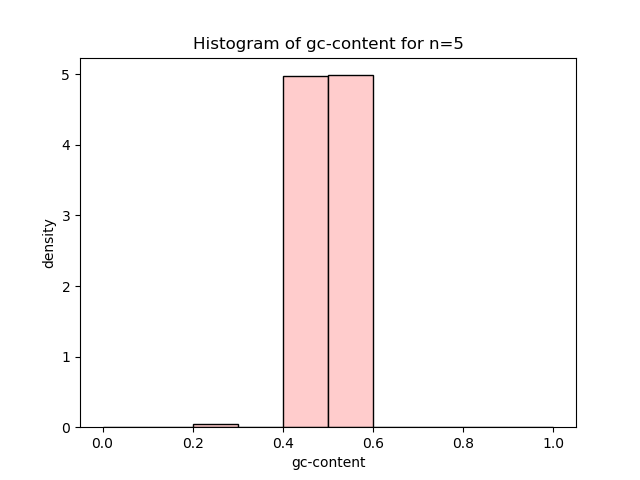
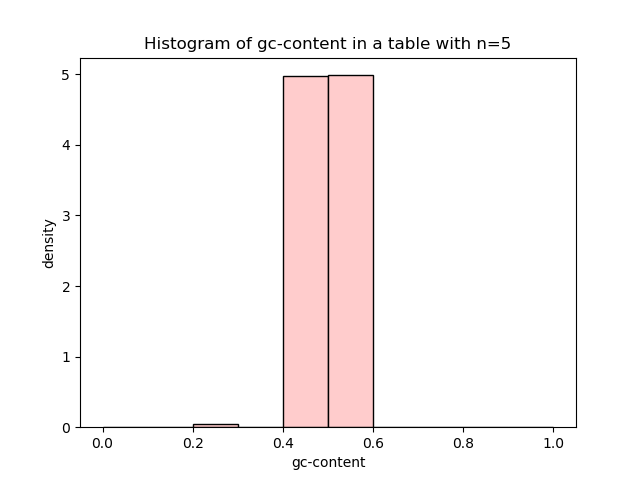
update pic

Changed region(s): [[0.2188, 0.0625, 0.8125, 0.125]]

diff --git a/pro/statistic.py b/pro/statistic.py
@@ -86,7 +86,7 @@ def table_statistics_hist(n, norm=False):
         plt.ylabel('counts')
     else:
         plt.ylabel('density')
-    plt.title(f'Histogram of gc-content for n={n}')
+    plt.title(f'Histogram of gc-content in a table with n={n}')
 
     # show
     plt.show()
